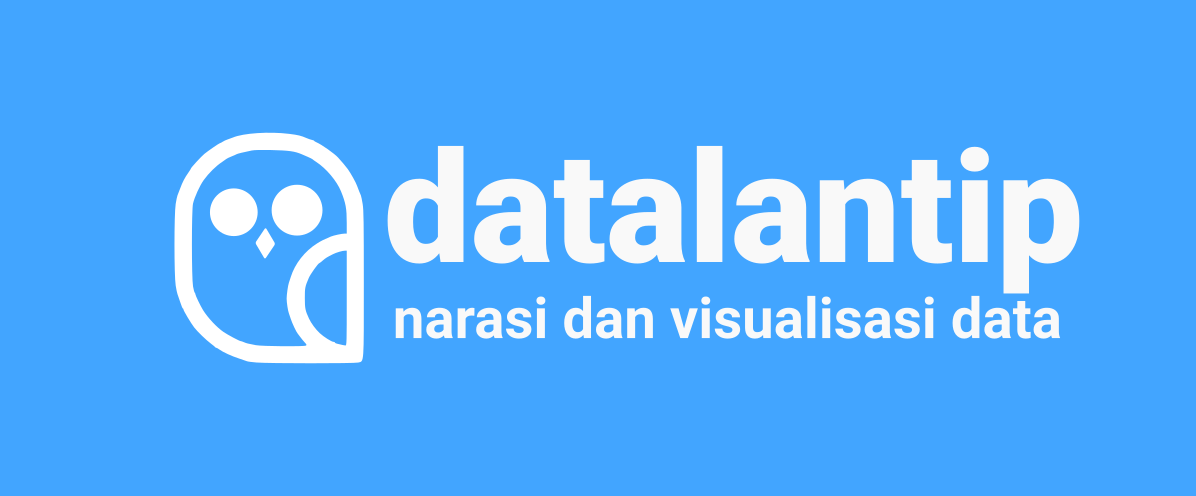
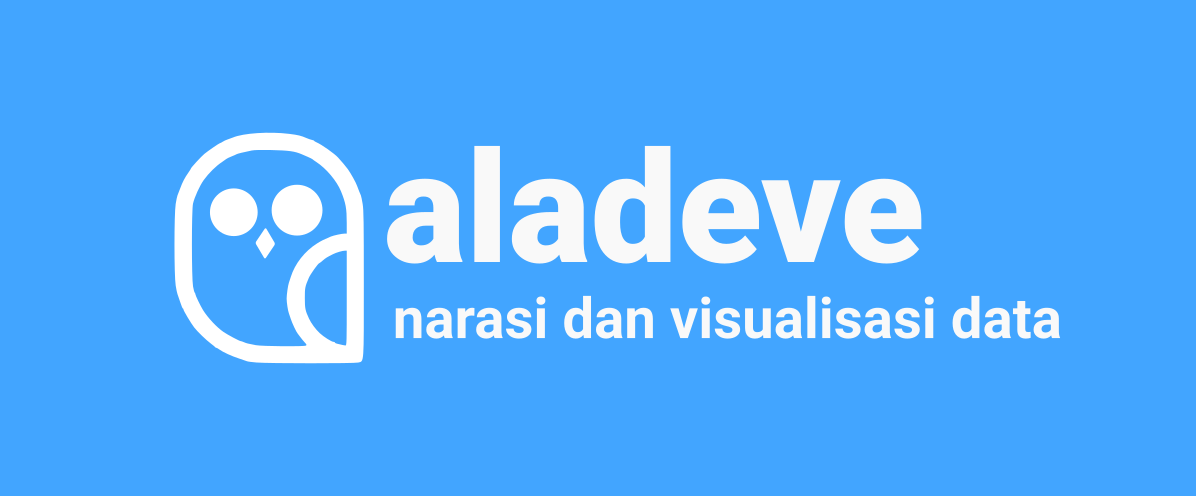
Mengganti web aladeve

Changed region(s): [[0.3094, 0.2722, 0.9281, 0.6048]]

diff --git a/themes/elegant/templates/_includes/footer.html b/themes/elegant/templates/_includes/footer.html
@@ -25,7 +25,7 @@
     {% endif %}
 
     <div id="fpowered">
-        <a href="/" title="Data Lantip" target="_blank" rel="nofollow noopener noreferrer"><strong>Data Lantip</a></strong>  | <span>
+        <a href="/" title="aladeve.com" target="_blank" rel="nofollow noopener noreferrer"><strong>aladeve.com</a></strong>  | <span>
         Copyright © 2022 </span>
         {% if HOSTED_ON and HOSTED_ON.name %}
         Hosted on:

diff --git a/publishconf.py b/publishconf.py
@@ -7,7 +7,7 @@ sys.path.append(os.curdir)
 from pelicanconf import *
 
 # If your site is available via HTTPS, make sure SITEURL begins with https://
-SITEURL = 'https://datalantip.github.io'
+SITEURL = 'https://aladeveloper.github.io'
 RELATIVE_URLS = False
 
 FEED_ALL_ATOM = 'feeds/all.atom.xml'

diff --git a/pelicanconf.py b/pelicanconf.py
@@ -4,7 +4,7 @@ from __future__ import unicode_literals
 import os
 
 AUTHOR = 'faris priadi'
-SITENAME = 'Data Lantip'
+SITENAME = 'aladeve'
 SITESUBTITLE = "programming and data visualization"
 SITEURL = "" #"https://datalantip.github.io" # leave it blank when in localhost
 
